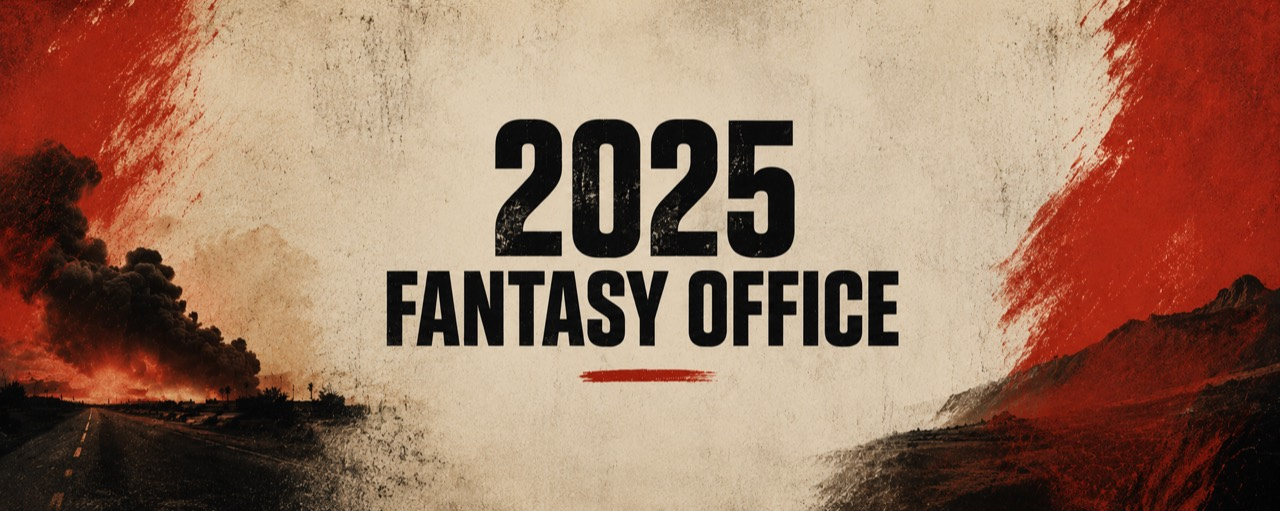
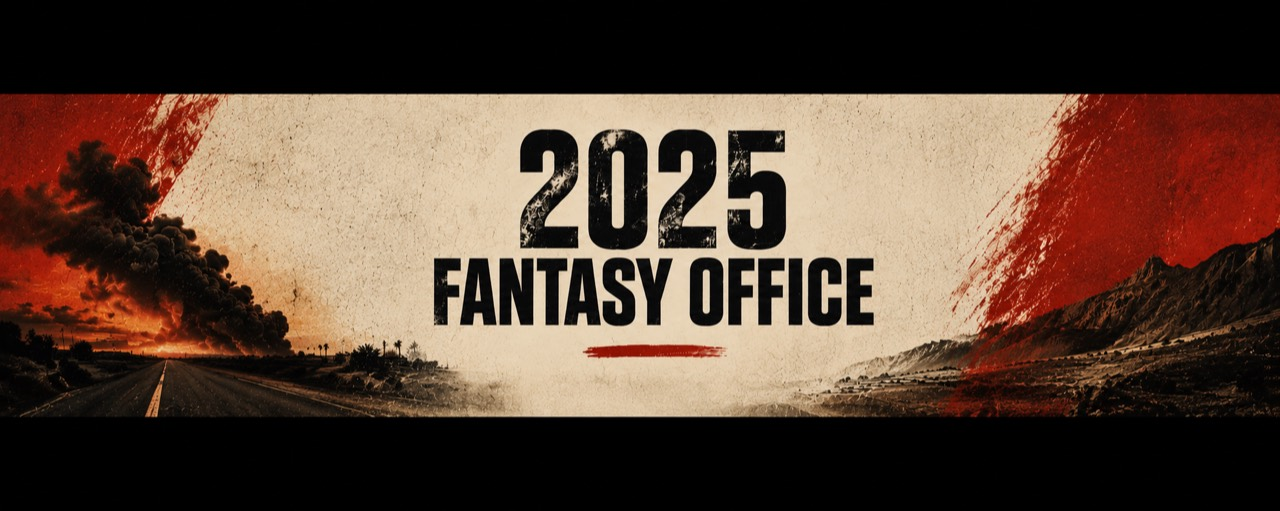
Replace Fantasy Office header art

diff --git a/index.html b/index.html
@@ -58,10 +58,10 @@
         <div class="header-page-art" data-header-art="fantasy-office-2025" aria-hidden="true">
           <picture>
             <source
-              srcset="assets/fantasy-office-2025-header-landscape.jpg?v=202606150001"
+              srcset="assets/fantasy-office-2025-header-landscape.jpg?v=202606150002"
               media="(orientation: landscape) and (max-height: 520px)"
             >
-            <img src="assets/fantasy-office-2025-header.jpg?v=202606150001" alt="">
+            <img src="assets/fantasy-office-2025-header.jpg?v=202606150002" alt="">
           </picture>
         </div>
         <div class="nav-links" data-nav-scope="world-cup" role="tablist" aria-label="Site sections">